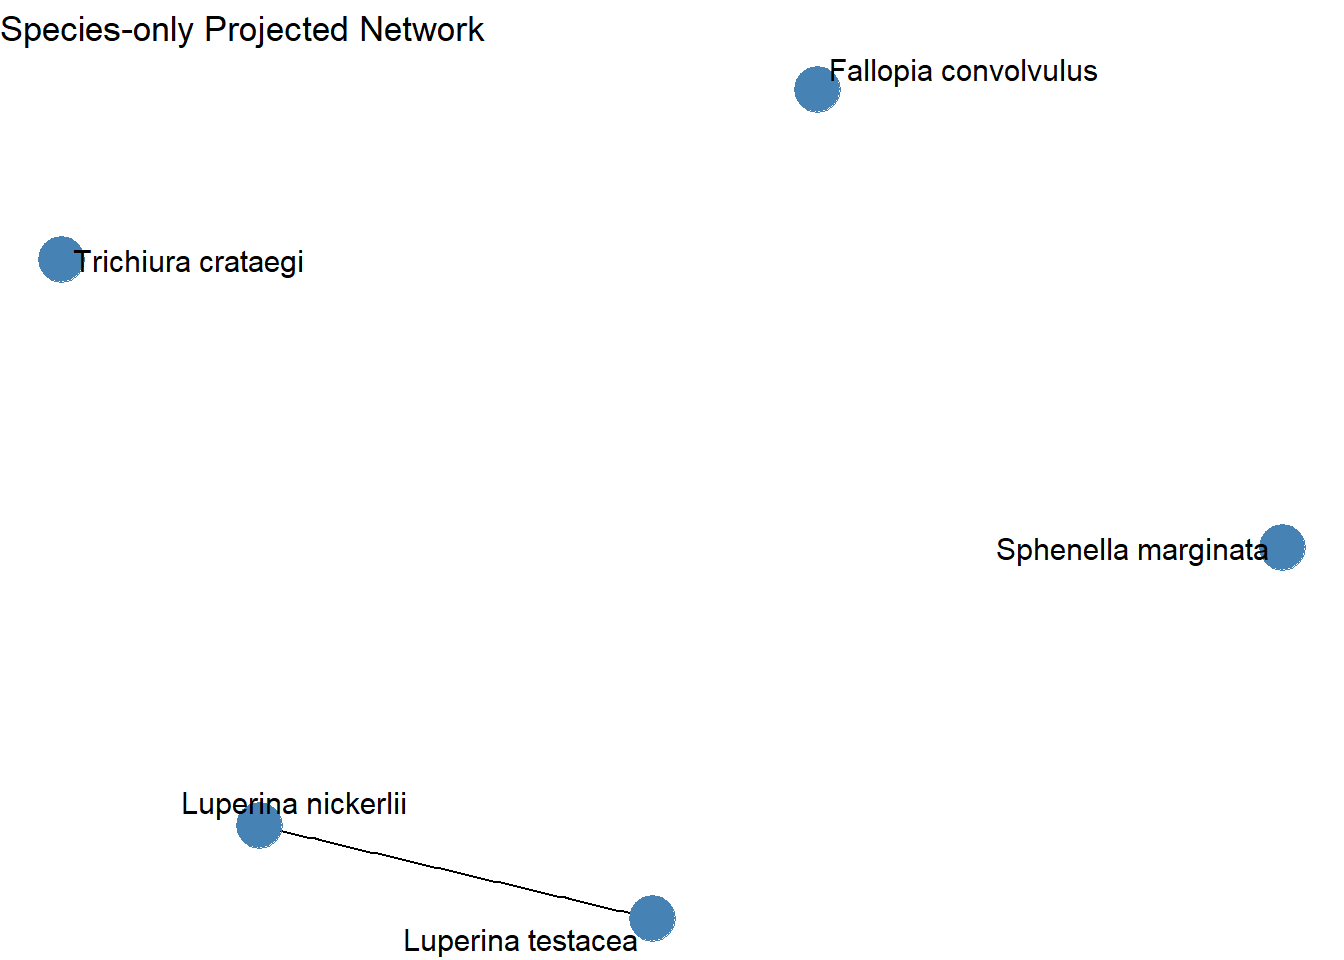
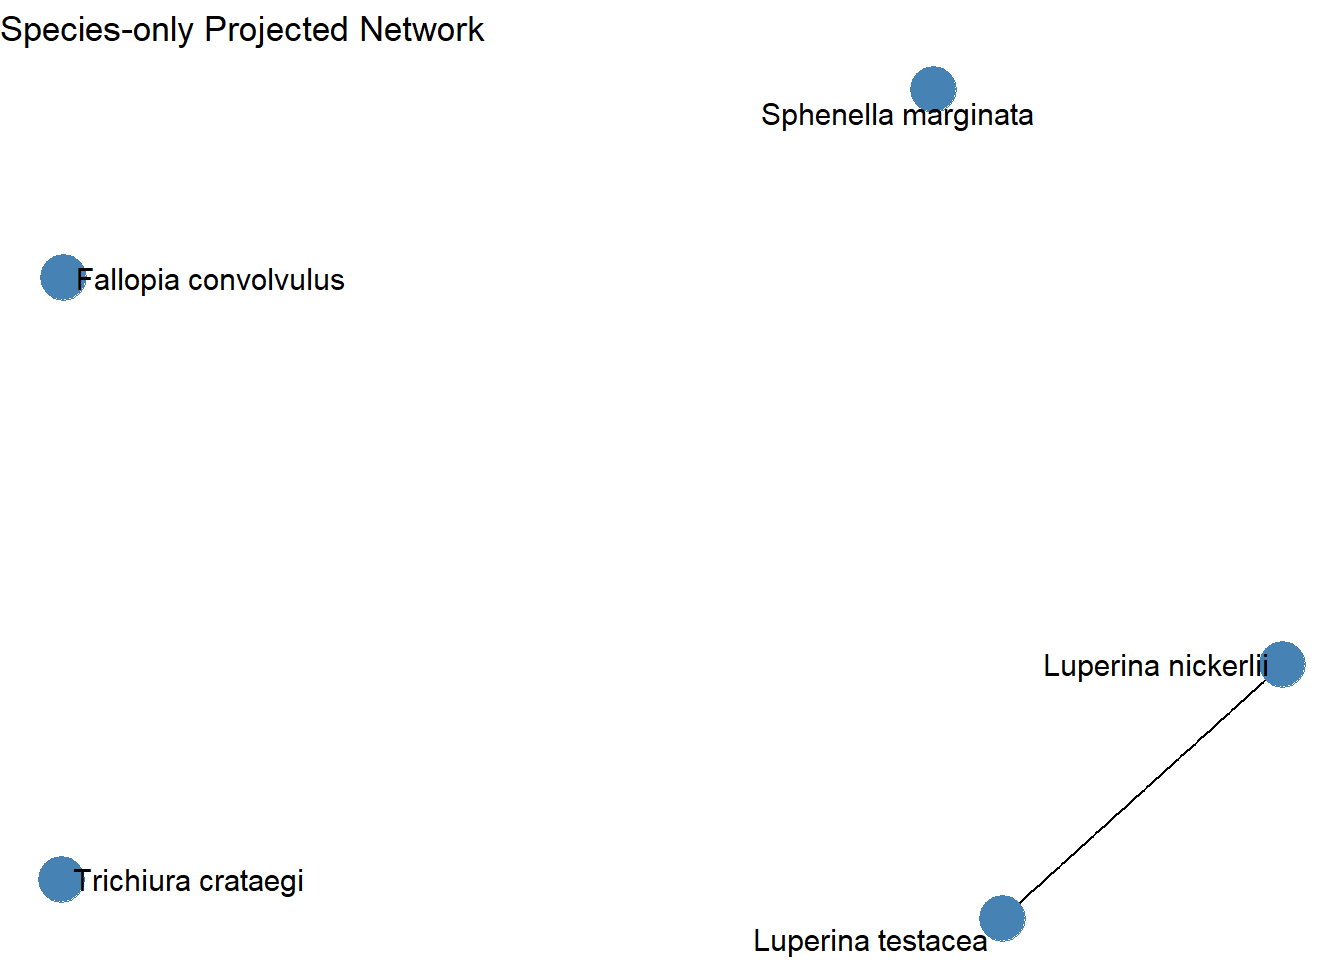
Book: new codon visualisations, overview + numbering, author/repo metadata
- nb03: add codon-usage volcano (motif-vs-genome and DNAzyme-vs-other),
  ENC distribution, and a codon co-occurrence network.
- index: add "Key findings at a glance" overview (moved from nb01) and mark
  the landing page unnumbered (fixes the "chapter 0" numbering).
- Standardise author to "Christina Muedsam" across notebooks, LICENSE, and
  DESCRIPTION (maintainer email -> GitHub noreply); set real repo-url.
- Re-freeze affected chapters.

diff --git a/packages/potytools/LICENSE.md b/packages/potytools/LICENSE.md
@@ -1,6 +1,6 @@
 MIT License
 
-Copyright (c) 2026 chrissi m.
+Copyright (c) 2026 Christina Muedsam
 
 Permission is hereby granted, free of charge, to any person obtaining a copy
 of this software and associated documentation files (the "Software"), to deal